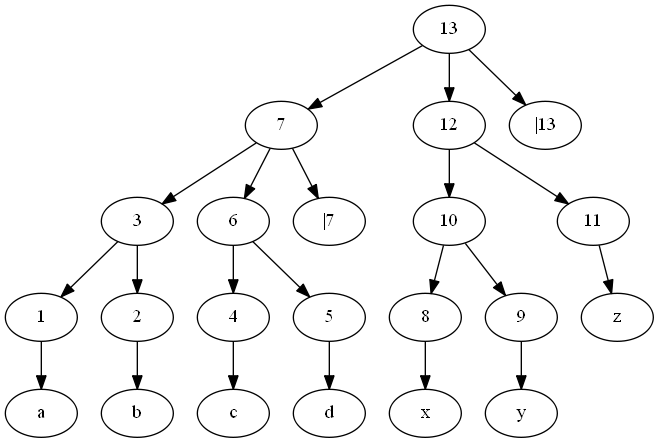
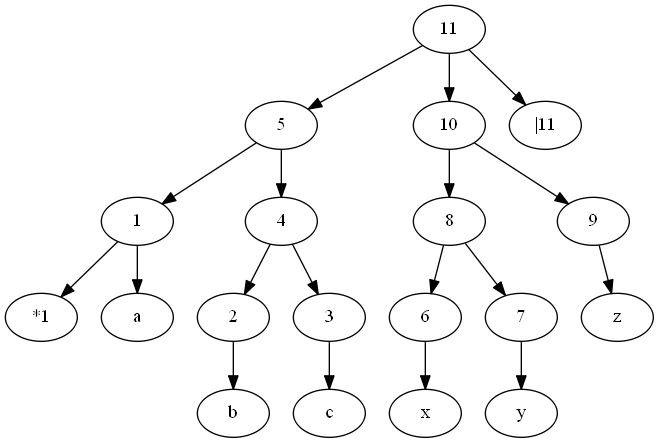
implementacion de la funcion estrellaKleen()

diff --git a/analizador_1_0.py b/analizador_1_0.py
@@ -50,7 +50,18 @@ def op_or(arbol):
     make_link(arbol, numNodo, nodo2)
     make_link(arbol, numNodo, '|'+str(numNodo))
     print ("operacion or")
-def op_estrellaKleen():
+def op_estrellaKleen(arbol):
+    global numNodo
+    nodo2 = numNodo
+    nodo1 = pilaNodos.pop()
+    if len(arbol[nodo1]) > 1:
+        make_link(arbol, nodo1 - 1, '*'+str(nodo1-1))
+    else:
+        make_link(arbol, nodo1, '*'+str(nodo1))
+    numNodo += 1
+    make_link(arbol, numNodo, nodo1)
+    make_link(arbol, numNodo, nodo2)
+    
     print ("operacion estrella de kleen")
 def op_superMas():
     print ("operacion super mas")
@@ -68,7 +79,7 @@ def hacerArbol(automata):
     global numNodo
     global pareja
     global dicOperaciones
-    dicOperaciones = {'*':op_estrellaKleen,'|':op_or,'+':op_superMas,'(':parentesisA,')':parentesisB}
+    dicOperaciones = {'*':op_estrellaKleen,'|':op_or,'+':op_superMas,'(':parentesisA,')':parentesisB,'fin':0}
     arbol = {}
     i = 0
     while i < len(automata):
